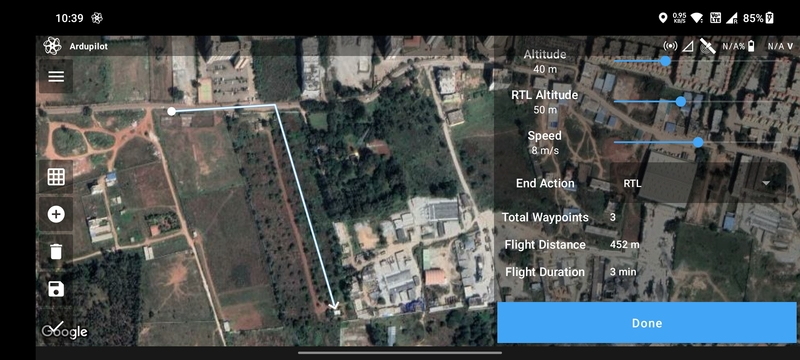
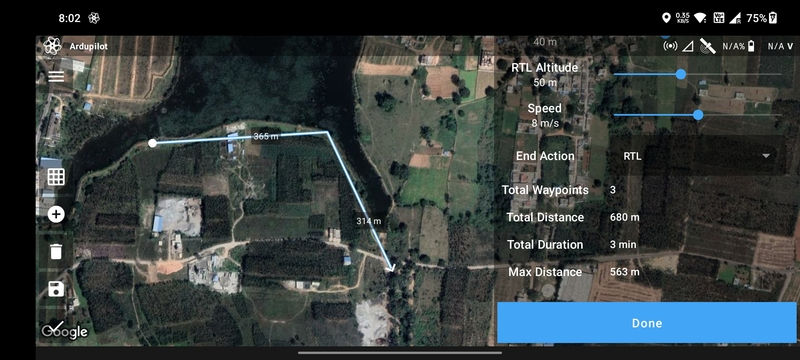
Update video line

diff --git a/docs/launchpad/mission-planning/video-line.md b/docs/launchpad/mission-planning/video-line.md
@@ -49,8 +49,9 @@ The following parameters are available for a `Video Line` mission:
 Based on the parameters selected, the following values are calculated and displayed:
 
 - `Total Waypoints`
-- `Flight Distance`
-- `Flight Duration`
+- `Total Distance`
+- `Total Duration`
+- `Max Distance`
 
 ![Parameters and Data](./img/video-line-params.jpg)
 
